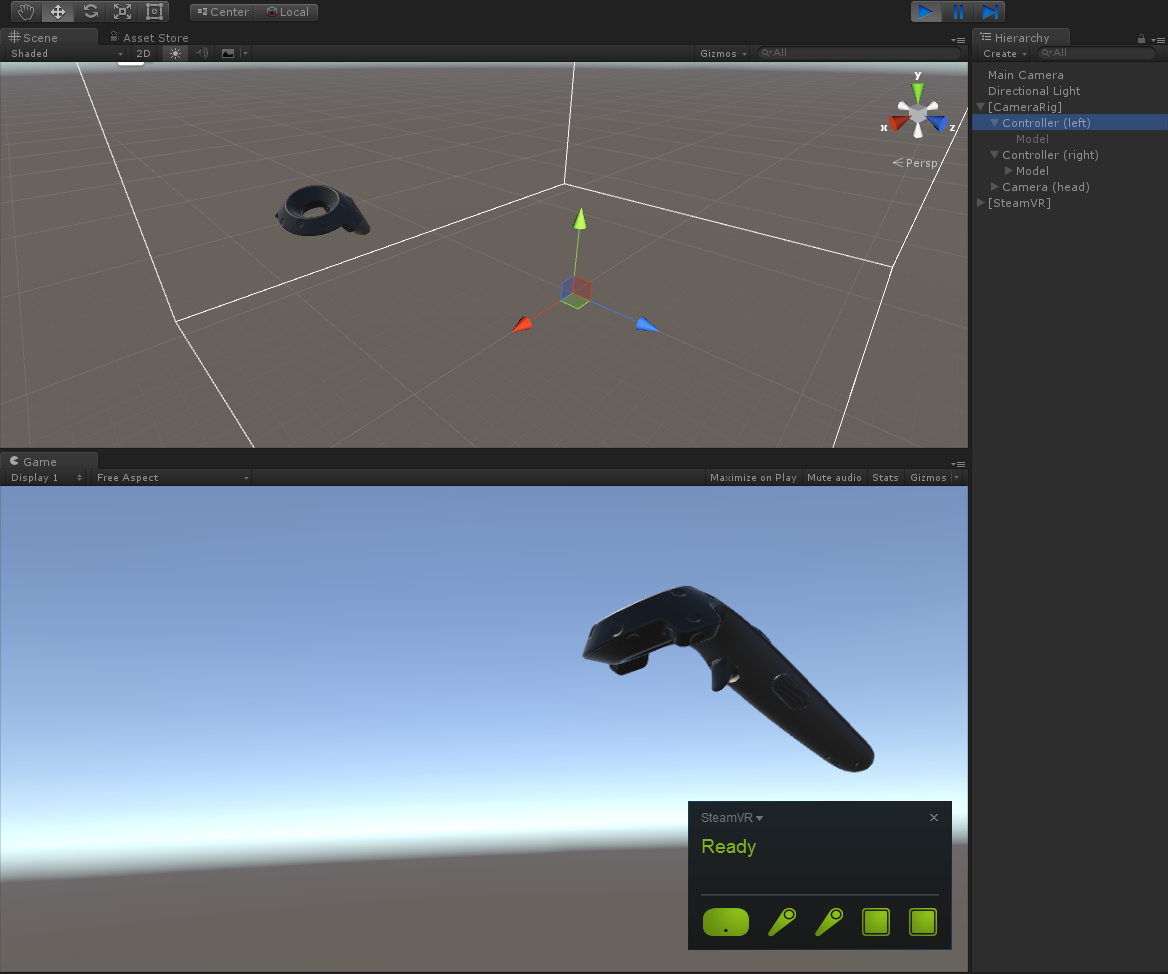
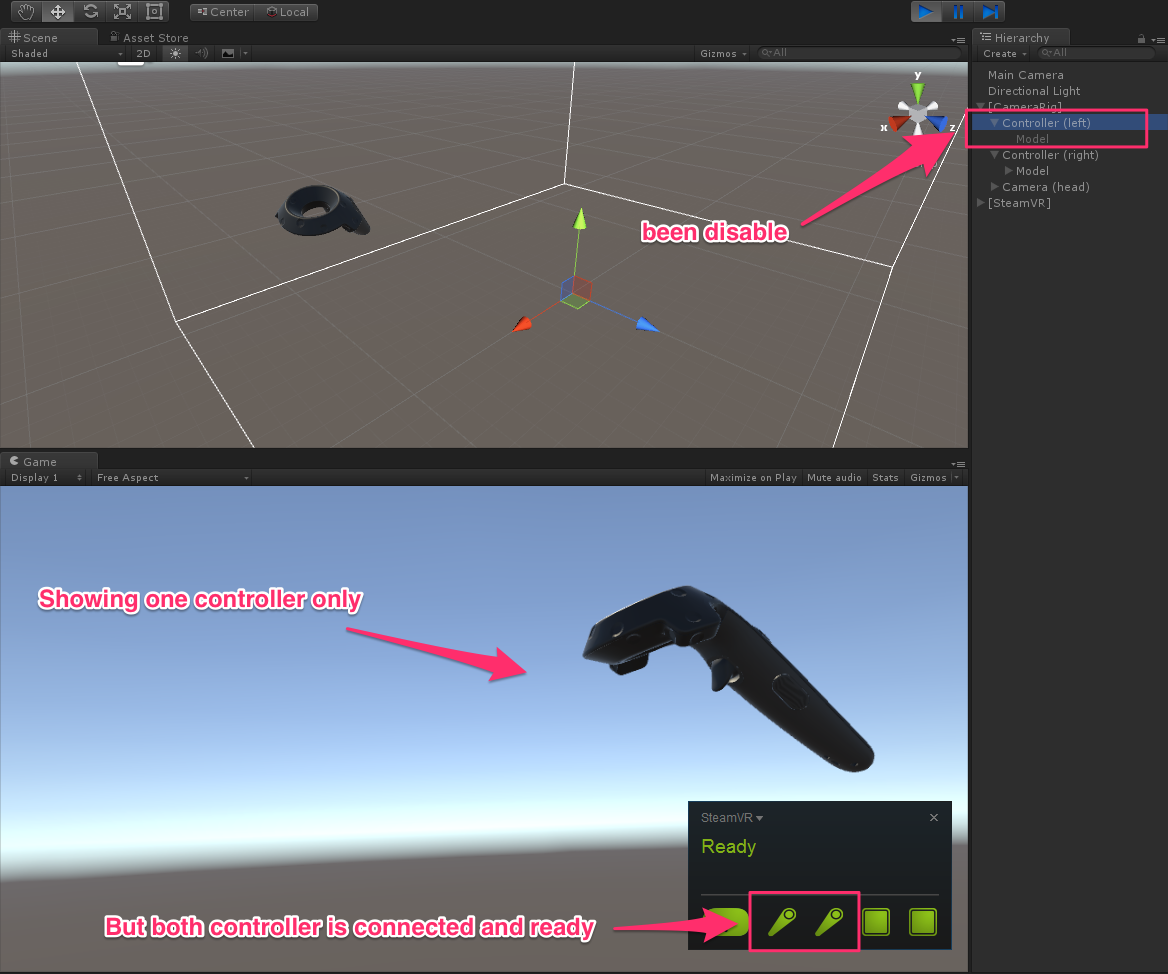
add Readme

diff --git a/README.md b/README.md
@@ -1,2 +1,34 @@
-# SteamVR-1.1.0-Patch
-Fix bug of only get one Vive controller in SteamVR for Unity
+# SteamVR Plugin-1.1.0-Patch
+
+## About
+This is a path that fix bug of Unity can only connecting one Vive controller with SteamVR plugin
+
+## Problem
+I meet a problem while I connect two Vive controllers in Unity. 
+
+Some related discussion forums：
+
+[Vive Controller not showing up anymore, tried everything, need help](http://forum.unity3d.com/threads/vive-controller-not-showing-up-anymore-tried-everything-need-help.411294/)
+[Trouble with SteamVR and Controllers](http://forum.unity3d.com/threads/trouble-with-steamvr-and-controllers.414840/)
+
+Example picture of this bug：
+![](./git_Resources/before.png)
+
+Showing on the figure above, the left controller wont connect and be able to use. The gameobject of it will be disable by code SteamVR_ControllerManager.cs.
+
+Because the gameobject is disable, the controller model won't be render by SteamVR_RenderModel.cs and won't show on the scene.
+
+## How to use
+1. You can just download [SteamVR.unitypackage](./steamVR.unitypackage) and import it into your project.
+
+2. If there are [SteamVR package](https://www.assetstore.unity3d.com/en/#!/content/32647) exist in your project, you can replace the code [SteamVR_ControllerManager.cs](./Scripts/SteamVR_ControllerManager.cs) and the bug will be fixed.
+
+- Now you can get both controller in your project：
+![](./git_Resources/after.png)
+
+## Version
+
+- Version: 1.1.0-patch (July 13, 2016)
+- Size: 2.5 MB (without example scene)
+- Originally released: 30 April 2015
+- Package has been test on Unity 5.3.0 ~ 5.3.5
